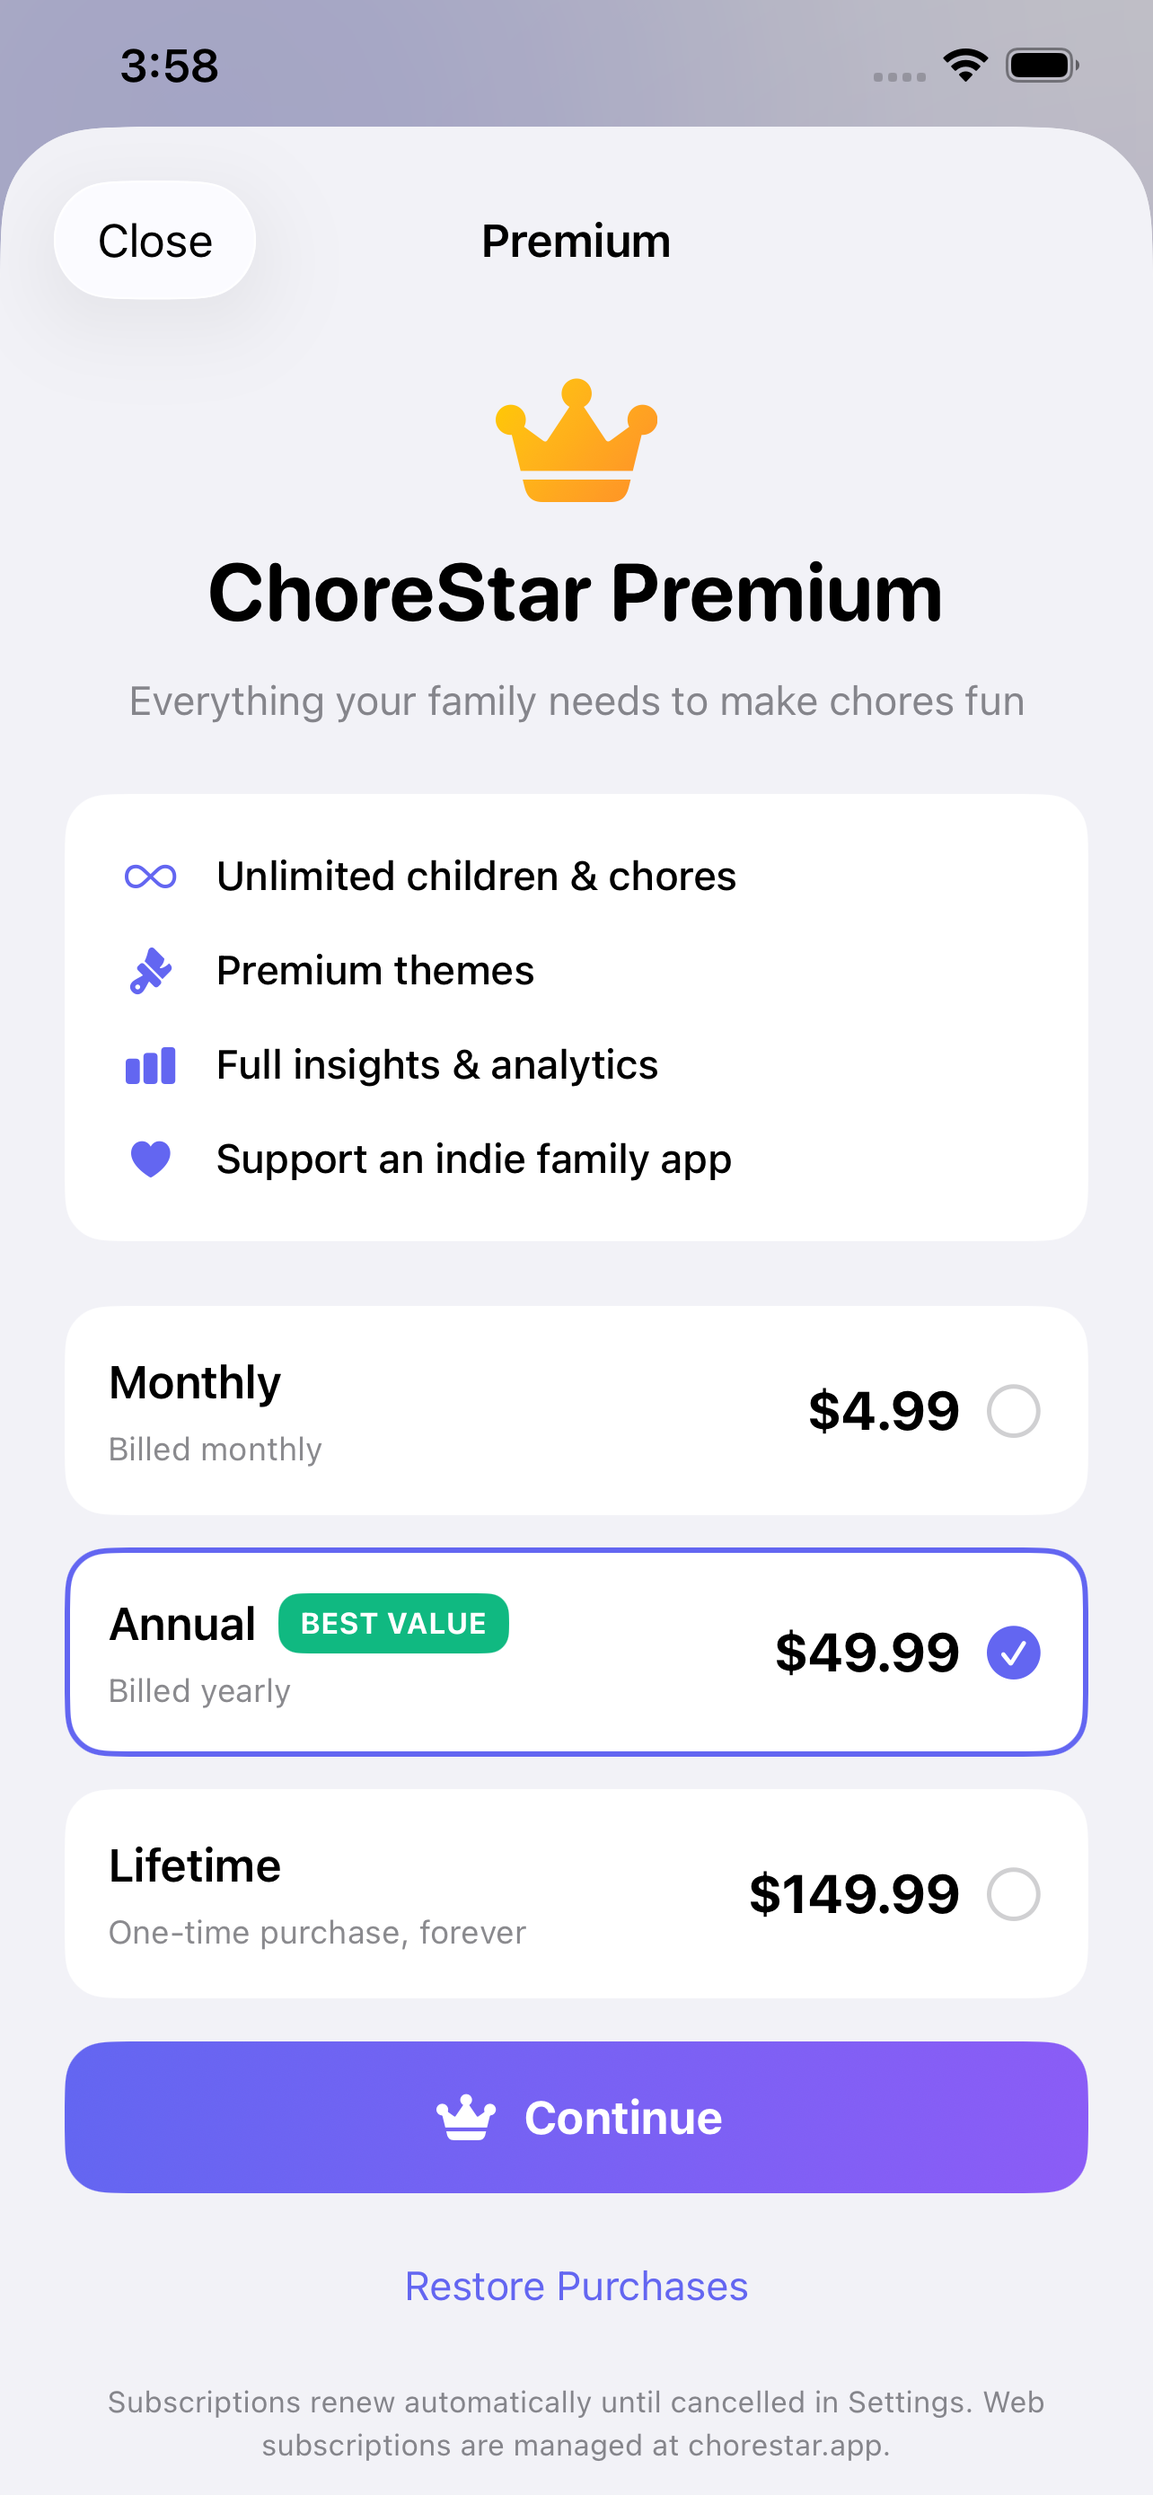
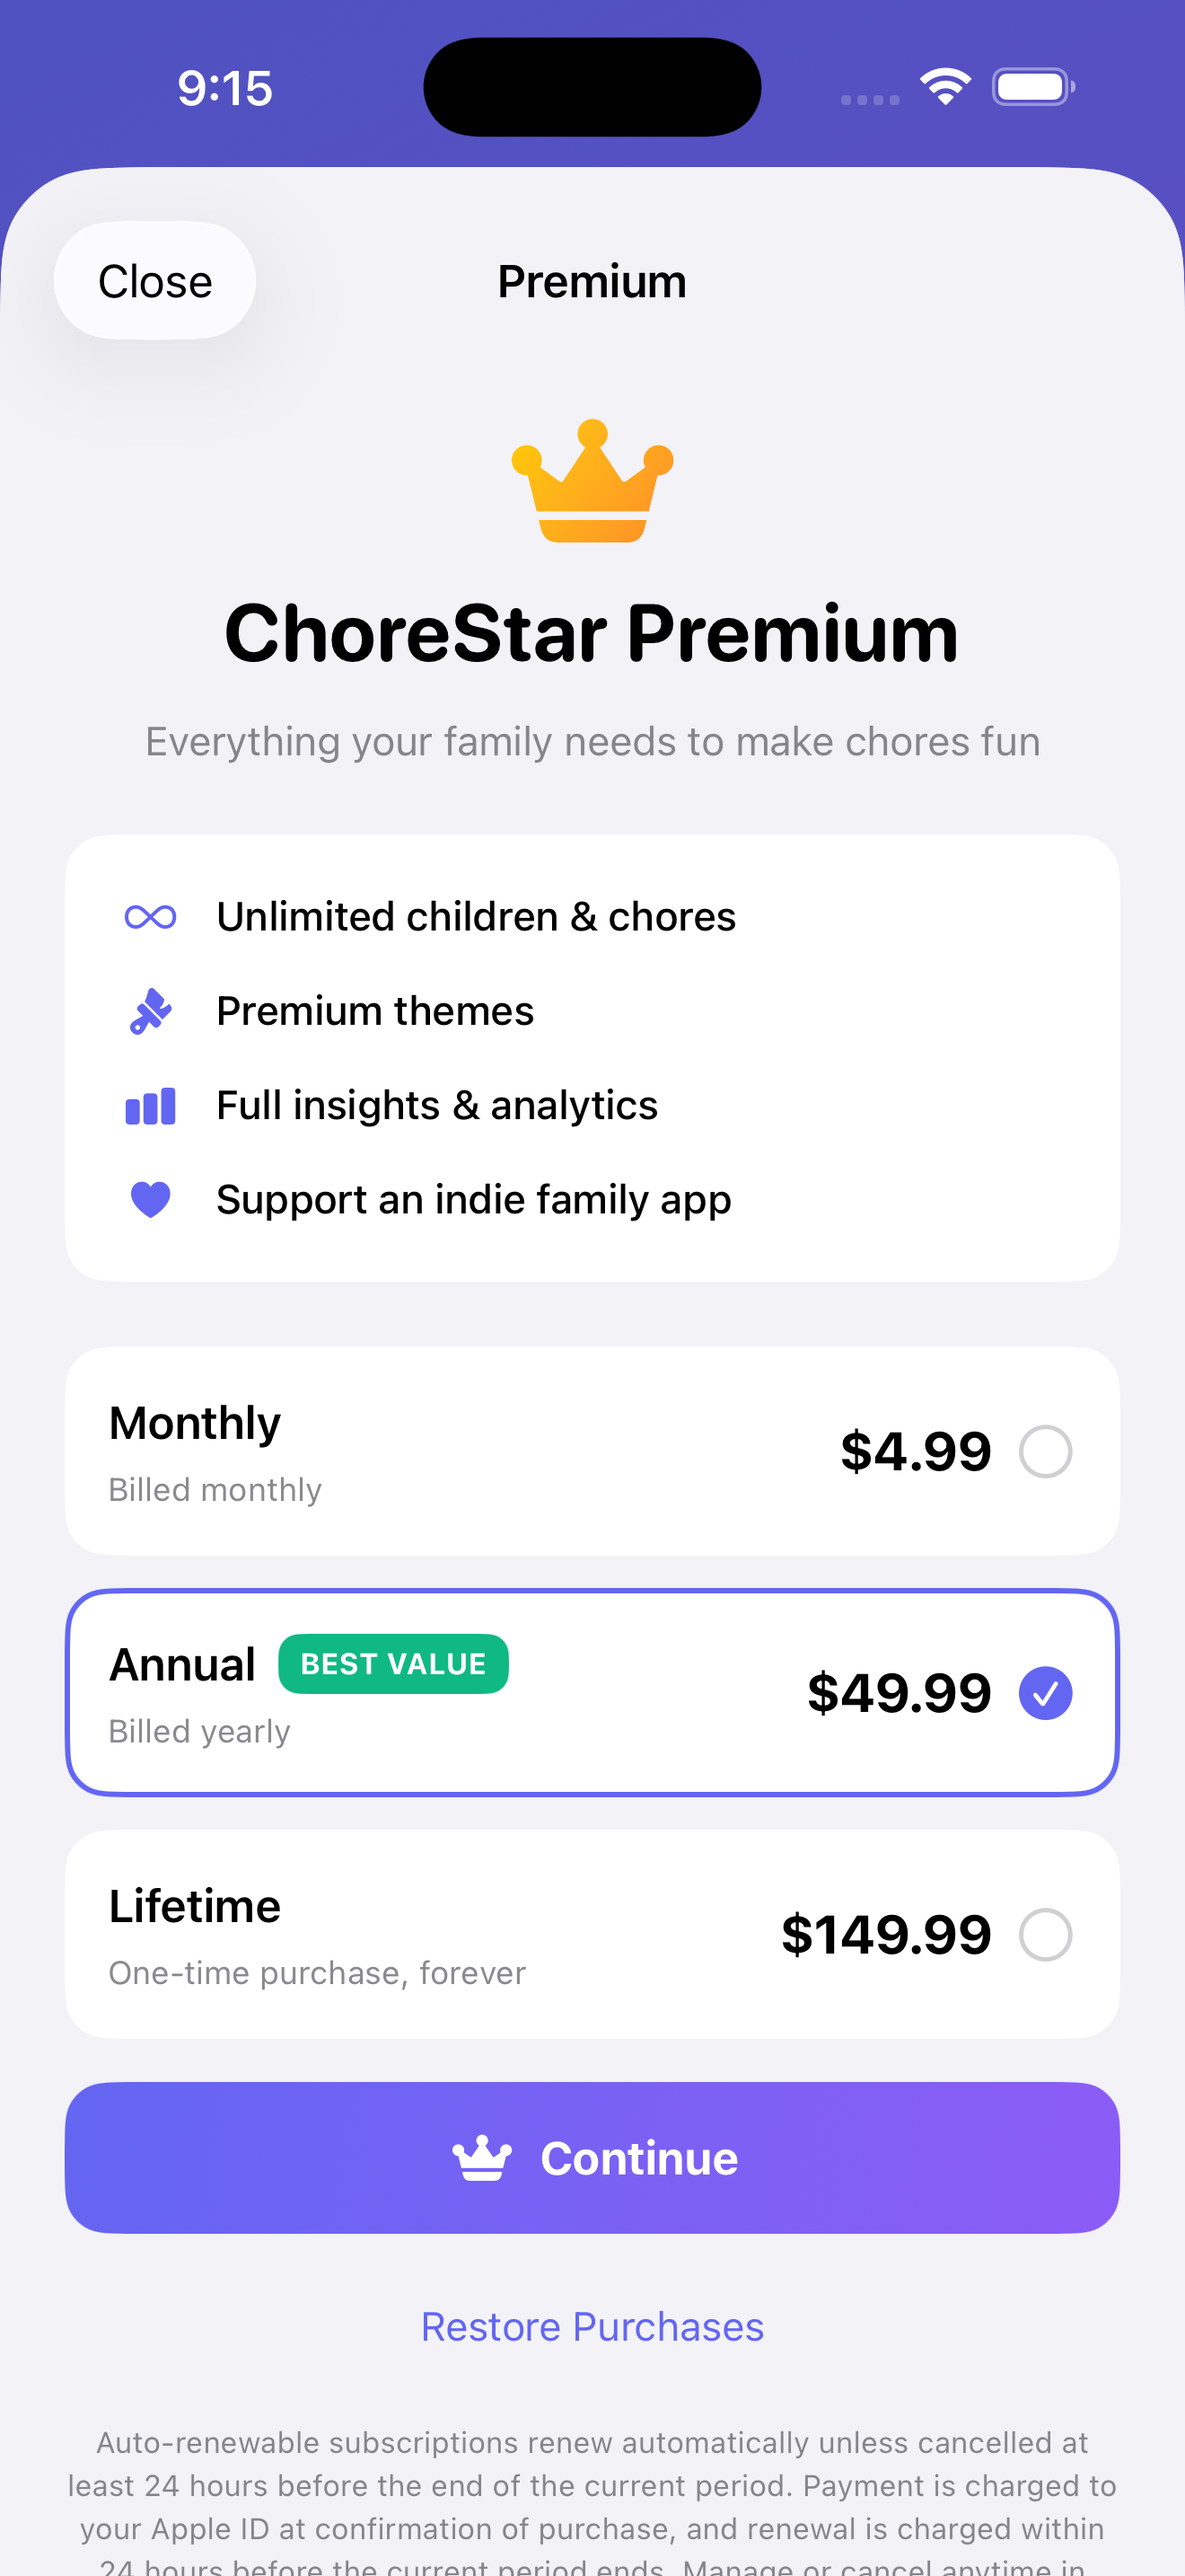
ios: regenerate paywall review screenshot; fix double Continue in screenshot mode
- Suppress the real purchase button when in screenshot mode so only the demo
  section's Continue renders (Xcode 26 loads StoreKit products in-sim, which
  otherwise produced a duplicate Continue button).
- Make isScreenshotMode release-safe (returns false outside DEBUG).
- Regenerate iap-review/paywall.png — now shows the Terms/Privacy links row +
  auto-renewal disclosure (iPhone 17 Pro Max, 1320x2868).

diff --git a/ChoreStar-iOS/ChoreStar/Views/PaywallView.swift b/ChoreStar-iOS/ChoreStar/Views/PaywallView.swift
@@ -61,8 +61,9 @@ struct PaywallView: View {
                     plansSection
                     #endif
 
-                    // Purchase button
-                    if let product = selectedProduct {
+                    // Purchase button (suppressed in screenshot mode — the demo
+                    // plan section provides its own Continue for the review capture)
+                    if let product = selectedProduct, !isScreenshotMode {
                         Button {
                             Task {
                                 let success = await store.purchase(product)
@@ -171,15 +172,19 @@ struct PaywallView: View {
         .padding(.vertical, 20)
     }
 
-    #if DEBUG
-    /// True when launched by the App Store screenshot tooling (`-chorestar-paywall`).
-    /// StoreKit test products don't load under `simctl`, so we render a static
-    /// preview of the plan cards purely so the review screenshot shows the
-    /// purchase options. Never compiled into release builds.
+    /// True only in DEBUG when launched by the App Store screenshot tooling
+    /// (`-chorestar-paywall`); always false in release builds. The demo plan
+    /// section renders a static preview so the review screenshot shows the
+    /// purchase options even when StoreKit products are slow to load.
     private var isScreenshotMode: Bool {
-        ProcessInfo.processInfo.arguments.contains("-chorestar-paywall")
+        #if DEBUG
+        return ProcessInfo.processInfo.arguments.contains("-chorestar-paywall")
+        #else
+        return false
+        #endif
     }
 
+    #if DEBUG
     private var demoPlansSection: some View {
         VStack(spacing: 12) {
             demoPlanCard(name: "Monthly", period: "Billed monthly", price: "$4.99", isBest: false, isSelected: false)
